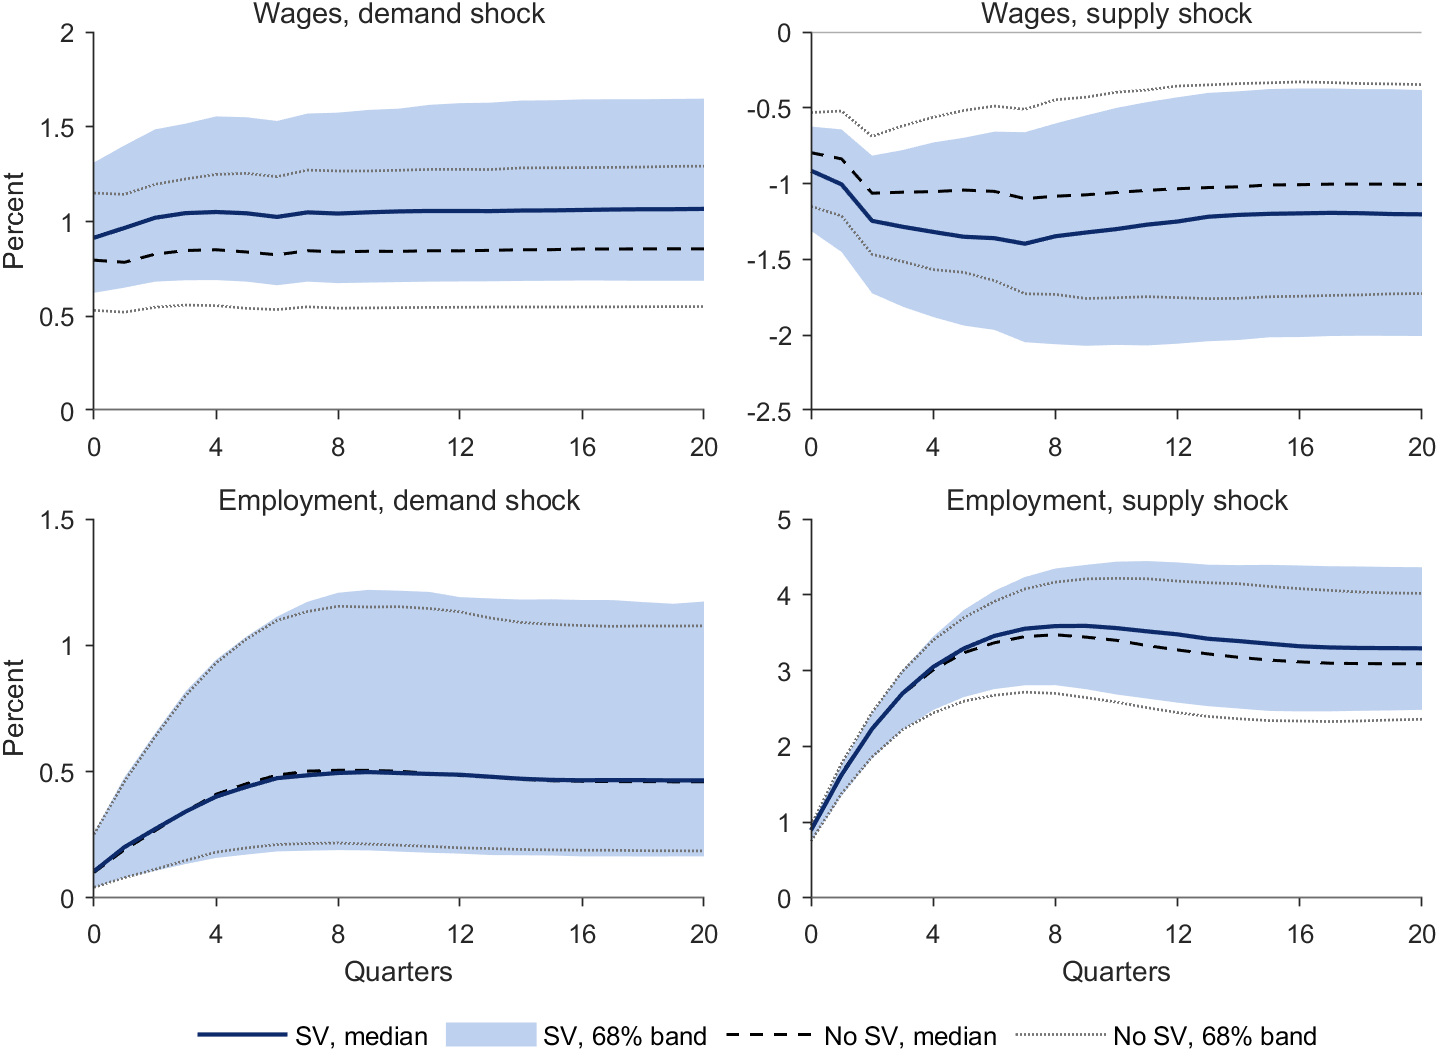
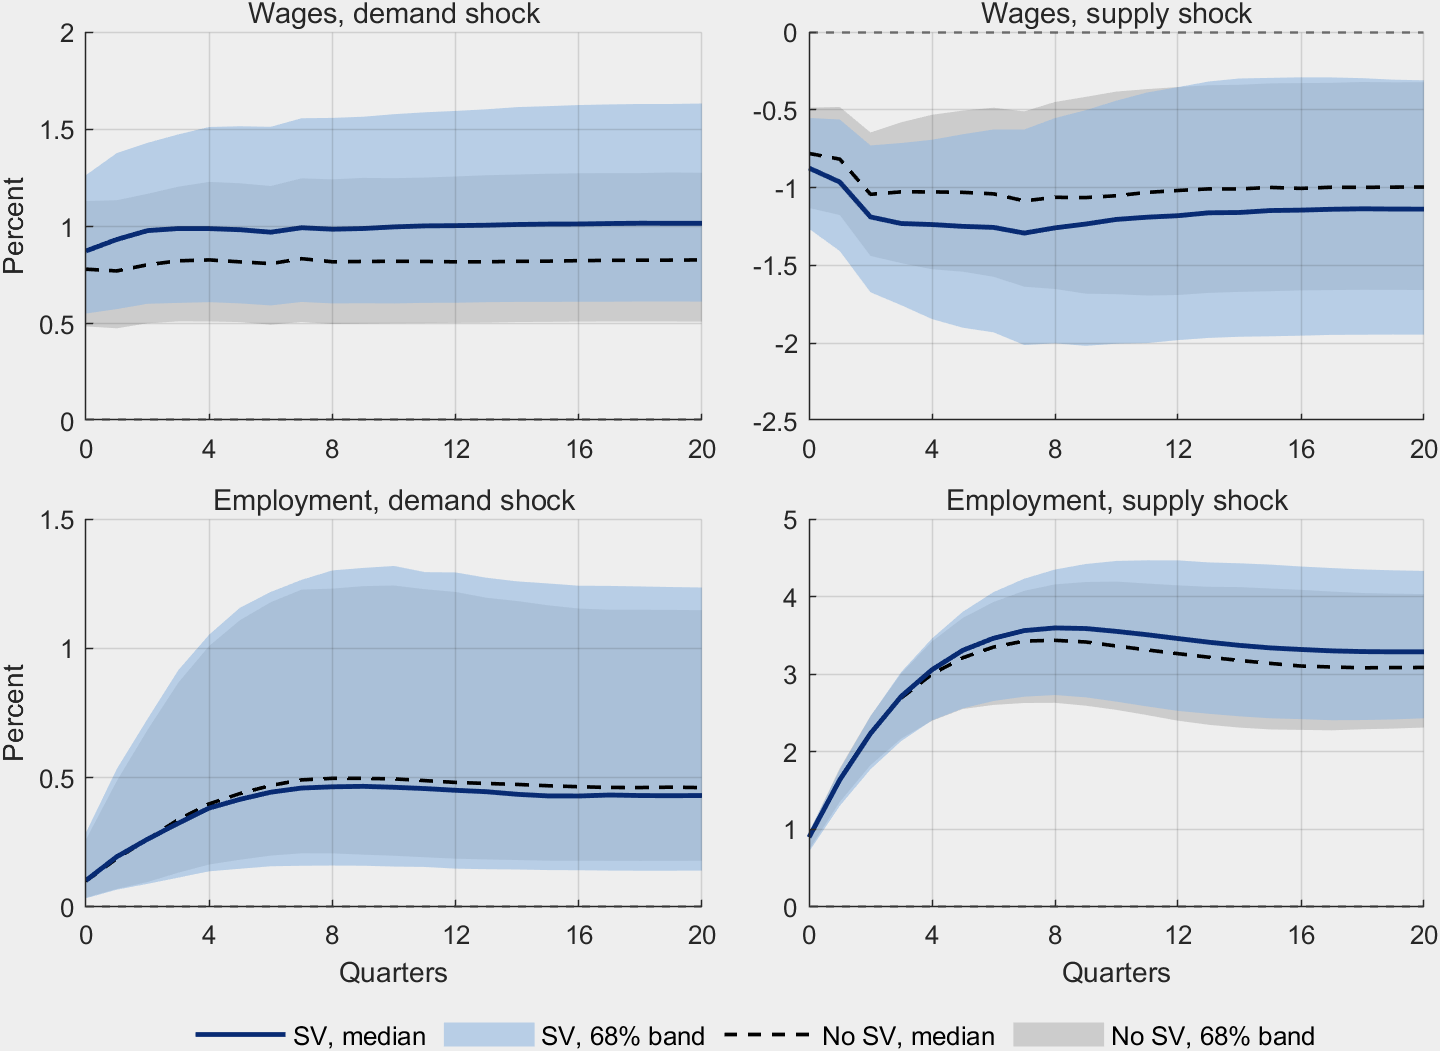
Blog BH15: converged sampler, gas-paper figure style, 8-quarter historical decomposition
Re-estimate with a log-scale adaptive random walk for A, four chains per
model (split R-hat 1.00). Restyle figures (site background, histograms,
lollipop ACF), show the historical decomposition for the SV model with
68% and 90% bands over an 8-quarter window, rewrite the results and
replace the data-vintage note with a note on the sampler.

diff --git a/_posts/2026-10-03-stochastic-volatility-baumeister-hamilton.md b/_posts/2026-10-03-stochastic-volatility-baumeister-hamilton.md
@@ -59,86 +59,87 @@ The common factor does not help identification, though. With a single factor the
 
 The Gibbs sampler has four blocks:
 
-1. $$A \mid Y, H$$: random-walk Metropolis on the marginal posterior above, computed with the standardized data.
+1. $$A \mid Y, H$$: random-walk Metropolis on the marginal posterior above, computed with the standardized data, with the random walk on $$\log(-\beta)$$ and $$\log \alpha$$.
 2. $$(b_i, d_{ii}) \mid A, H, Y$$: direct Normal–inverse-gamma draws, equation by equation.
 3. $$H \mid A, B, D, Y$$: the volatility path, using the Kim, Shephard and Chib (1998) mixture approximation and forward-filtering backward-sampling.
 4. $$(\phi, \sigma^2) \mid H$$: conjugate draws.
 
-Setting $$\sigma^2 \to 0$$ freezes $$h_t = 0$$ and recovers the homoskedastic BH15 sampler. Two practical details matter. The levels of $$h_t$$ and $$d_{ii}$$ are not separately identified (only $$d_{ii}\, e^{h_t}$$ is), so I recentre $$h_t$$ to mean zero at every iteration. Otherwise it drifts as $$\phi$$ approaches one. And the sign restrictions are imposed by rejecting Metropolis proposals that violate them, which amounts to truncating $$p(A)$$. Since the unconstrained mode violates them, the chain starts at the centre of the prior.
+Setting $$\sigma^2 \to 0$$ freezes $$h_t = 0$$ and recovers the homoskedastic BH15 sampler. Two practical details matter. The levels of $$h_t$$ and $$d_{ii}$$ are not separately identified (only $$d_{ii}\, e^{h_t}$$ is), so I recentre $$h_t$$ to mean zero at every iteration. Otherwise it drifts as $$\phi$$ approaches one. And the random walk for $$A$$ runs on the logarithms of the sign-restricted elements, so every proposal satisfies the restrictions, and its covariance is adapted during the burn-in. The note on the sampler at the end explains why this matters.
 
 ## Application: the US labor market
 
-I use the BH15 bivariate labor-market model: quarterly growth of real hourly compensation in the nonfarm business sector and of total nonfarm payroll employment, eight lags. Labor demand and supply shocks are separated by the BH15 prior, with a downward-sloping demand curve ($$\beta < 0$$) and an upward-sloping supply curve ($$\alpha > 0$$), plus a long-run restriction. The data are the current FRED vintage (series COMPRNFB and PAYEMS) and the sample is 1970:Q1–2019:Q4. It stops before 2020 because the COVID quarters are outliers of about fifteen standard deviations, which a Gaussian volatility process can only absorb by inflating $$\sigma^2$$ (Carriero, Clark, Marcellino and Mertens, 2024). The sampler runs 24,000 iterations, keeps the last 12,000 and uses every sixth draw.
+I use the BH15 bivariate labor-market model: quarterly growth of real hourly compensation in the nonfarm business sector and of total nonfarm payroll employment, eight lags. Labor demand and supply shocks are separated by the BH15 prior, with a downward-sloping demand curve ($$\beta < 0$$) and an upward-sloping supply curve ($$\alpha > 0$$), plus a long-run restriction. The data are the current FRED vintage (series COMPRNFB and PAYEMS) and the sample is 1970:Q1–2019:Q4. It stops before 2020 because the COVID quarters are outliers of about fifteen standard deviations, which a Gaussian volatility process can only absorb by inflating $$\sigma^2$$ (Carriero, Clark, Marcellino and Mertens, 2024). Each model is estimated with four chains of 110,000 iterations from dispersed starting points, discarding the first 10,000. The split $$\hat{R}$$ is 1.00 for both slopes and the effective sample size of $$\alpha$$ exceeds 23,000.
 
 **The volatility factor.** The common factor recovers the main episodes of US macroeconomic volatility: the Great Inflation, the Great Moderation and the Great Recession (Figure 1).
 
 <figure>
   <a href="/assets/blog/bh15-sv/volatility-factor.png"><img src="/assets/blog/bh15-sv/volatility-factor.png" alt="Posterior median, 68% and 90% bands of the common volatility factor, 1970 to 2019"></a>
-  <figcaption><strong>Figure 1. Common volatility factor</strong> \(e^{h_t/2}\), posterior median with 68% and 90% bands. Grey areas are NBER recessions. Peaks of 1.40 in 1974:Q4 and 1.35 in 1980:Q2, below one from 1984 with a trough of 0.72 in 1996, a peak of 1.45 in 2008:Q4 and a second trough of 0.75 in 2017. Posterior means: \(\phi \approx 0.92\), \(\sigma^2 \approx 0.04\).</figcaption>
+  <figcaption><strong>Figure 1. Common volatility factor</strong> \(e^{h_t/2}\), posterior median with 68% and 90% bands. Peaks of 1.41 in 1974:Q4 and 1.33 in 1980:Q2, below one from 1984 with a trough of 0.71 in 1996, a peak of 1.45 in 2008:Q4 and a second trough of 0.75 in 2017. Posterior means: \(\phi \approx 0.92\), \(\sigma^2 \approx 0.04\).</figcaption>
 </figure>
 
-**Elasticities.** Stochastic volatility leaves the posterior of the supply slope unchanged and moves the demand slope slightly towards zero (Figure 2). The supply slope is tightly estimated in both models, far from its prior. The demand slope stays close to its prior, as BH15 find.
+**Elasticities.** The posteriors of both slopes are almost the same in the two models (Figure 2). The supply slope is concentrated around 0.1, well below the centre of its prior, with a long right tail that is somewhat longer with stochastic volatility: the upper end of the 95% interval is 0.74 against 0.61. The posterior of the demand slope overlaps heavily with its prior, as in BH15.
 
 | | Demand slope $$\beta$$, no SV | Demand slope $$\beta$$, SV | Supply slope $$\alpha$$, no SV | Supply slope $$\alpha$$, SV |
 |---|---|---|---|---|
-| Median | −1.13 | −0.98 | 0.13 | 0.12 |
-| Std. deviation | 0.62 | 0.60 | 0.09 | 0.09 |
-| 95% interval | [−2.93, −0.33] | [−2.90, −0.27] | [0.04, 0.41] | [0.03, 0.41] |
+| Median | −1.12 | −1.03 | 0.13 | 0.11 |
+| Std. deviation | 0.94 | 0.93 | 0.19 | 0.23 |
+| 95% interval | [−3.48, −0.22] | [−3.22, −0.15] | [0.03, 0.61] | [0.02, 0.74] |
 
 <figure>
-  <a href="/assets/blog/bh15-sv/elasticity-posteriors.png"><img src="/assets/blog/bh15-sv/elasticity-posteriors.png" alt="Prior and posterior densities of the demand and supply slopes with and without stochastic volatility"></a>
-  <figcaption><strong>Figure 2. Prior and posterior densities of the elasticities</strong>, with and without stochastic volatility. The prior is the sign-truncated Student-t of BH15.</figcaption>
+  <a href="/assets/blog/bh15-sv/elasticity-posteriors.png"><img src="/assets/blog/bh15-sv/elasticity-posteriors.png" alt="Posterior histograms of the demand and supply slopes with and without stochastic volatility, and their prior"></a>
+  <figcaption><strong>Figure 2. Posterior histograms of the elasticities</strong>, with and without stochastic volatility, and the prior density, the sign-truncated Student-t of BH15. Each histogram uses 400,000 draws.</figcaption>
 </figure>
 
-The variance-decomposition shares at a four-year horizon do not move either. Wage variance is about 87% demand-driven with stochastic volatility and 88% without, employment variance about 86% and 84% supply-driven, and the 68% bands have the same width.
+The variance-decomposition shares at a four-year horizon do not move either. Wage variance is about 88% demand-driven in both models and employment variance about 86% supply-driven with stochastic volatility and 84% without. The 68% bands are slightly wider with stochastic volatility.
 
-**Historical decomposition.** Figures 3 and 4 show the contribution of each shock to the four-quarter growth of employment and wages. Summing the contributions over a four-quarter window, rather than cumulating them from 1970, keeps the uncertainty of the contributions from accumulating over the sample. Supply shocks account for the falls in employment growth in every recession: about −3.3 percentage points in 1975, −3.4 in 1982, −2.0 in 1991, −2.8 in 2001 and −5.8 in 2009. Demand shocks contribute less than two points in either direction. The two models give almost the same medians. The bands are 5% narrower with stochastic volatility for employment and 10% wider for wages.
+**Historical decomposition.** Figures 3 and 4 show the contribution of each shock to the eight-quarter growth of employment and wages in the model with stochastic volatility. Summing the contributions over an eight-quarter window, rather than cumulating them from 1970, keeps their uncertainty from accumulating over the sample. Supply shocks account for the falls in employment growth around every recession, with troughs of about −2.5 percentage points in 1975, −4.5 in 1983, −4.1 in 1992, −4.4 in 2002 and −8.1 at the end of 2009. Demand shocks move employment growth by at most about two points. The homoskedastic medians, not shown, differ from these by less than 0.8 points at any date, because the realized structural shocks are the same residuals in both models and the posteriors of $$A$$ and $$B$$ nearly coincide.
 
 <figure>
-  <a href="/assets/blog/bh15-sv/historical-decomposition.png"><img src="/assets/blog/bh15-sv/historical-decomposition.png" alt="Contributions of demand and supply shocks to four-quarter employment growth, with and without stochastic volatility"></a>
-  <figcaption><strong>Figure 3. Historical decomposition of employment</strong>: contributions of demand shocks (left) and supply shocks (right) to four-quarter employment growth, with and without stochastic volatility. Bands are 68% intervals, and grey areas are NBER recessions.</figcaption>
+  <a href="/assets/blog/bh15-sv/historical-decomposition.png"><img src="/assets/blog/bh15-sv/historical-decomposition.png" alt="Contributions of demand and supply shocks to eight-quarter employment growth, model with stochastic volatility"></a>
+  <figcaption><strong>Figure 3. Historical decomposition of employment</strong>: contributions of demand shocks (left) and supply shocks (right) to eight-quarter employment growth, model with stochastic volatility. Posterior median with 68% and 90% bands.</figcaption>
 </figure>
 
-Wage growth is driven mostly by demand shocks, with swings of up to about 3.5 points (Figure 4). In recessions supply shocks push wages up, by about 2.7 points in 2009:Q2, the mirror image of their negative contribution to employment.
+Wage growth is driven mostly by demand shocks, which subtract about 5.3 points in 1975 and 6.4 in 2009 and add about 5.0 in 1999 (Figure 4). Around recessions supply shocks push wages up, by about 3.1 points in 2009, the mirror image of their negative contribution to employment.
 
 <figure>
-  <a href="/assets/blog/bh15-sv/historical-decomposition-wages.png"><img src="/assets/blog/bh15-sv/historical-decomposition-wages.png" alt="Contributions of demand and supply shocks to four-quarter wage growth, with and without stochastic volatility"></a>
-  <figcaption><strong>Figure 4. Historical decomposition of wages</strong>: contributions of demand shocks (left) and supply shocks (right) to four-quarter wage growth, with and without stochastic volatility. Bands are 68% intervals, and grey areas are NBER recessions.</figcaption>
+  <a href="/assets/blog/bh15-sv/historical-decomposition-wages.png"><img src="/assets/blog/bh15-sv/historical-decomposition-wages.png" alt="Contributions of demand and supply shocks to eight-quarter wage growth, model with stochastic volatility"></a>
+  <figcaption><strong>Figure 4. Historical decomposition of wages</strong>: contributions of demand shocks (left) and supply shocks (right) to eight-quarter wage growth, model with stochastic volatility. Posterior median with 68% and 90% bands.</figcaption>
 </figure>
 
-**Unit responses.** On impact, the response to a unit structural shock depends only on $$A$$, so the two models differ as much as their posteriors of $$A$$ do: the impact response of wages to a demand shock is 0.91 with stochastic volatility and 0.80 without (Figure 5). At longer horizons the responses also depend on the lag coefficients, which stochastic volatility estimates by GLS. The shapes and signs are the same and the bands overlap. For wages the stochastic-volatility bands are wider.
+**Unit responses.** On impact, the response to a unit structural shock depends only on $$A$$, so the two models differ as much as their posteriors of $$A$$ do: the impact response of wages to a demand shock is 0.87 with stochastic volatility and 0.78 without (Figure 5). At longer horizons the responses also depend on the lag coefficients, which stochastic volatility estimates by GLS. The shapes and signs are the same and the bands overlap. For wages the stochastic-volatility bands are wider.
 
 <figure>
   <a href="/assets/blog/bh15-sv/unit-irfs.png"><img src="/assets/blog/bh15-sv/unit-irfs.png" alt="Responses of wages and employment to unit demand and supply shocks, with and without stochastic volatility"></a>
   <figcaption><strong>Figure 5. Responses to a unit structural shock</strong>, cumulated to levels, with and without stochastic volatility. Bands are 68% intervals.</figcaption>
 </figure>
 
-**State dependence.** A one-standard-deviation shock has size $$\sqrt{d_{ii}}\, e^{h_t/2}$$, so its impulse response is the unit response scaled by the volatility of the moment. A shock in 2009 moves employment about twice as much as one in 1995, the ratio of the median volatility factor in the two years, 1.44 against 0.73 (Figure 6). The homoskedastic model has a single one-standard-deviation response.
+**State dependence.** A one-standard-deviation shock has size $$\sqrt{d_{ii}}\, e^{h_t/2}$$, so its impulse response is the unit response scaled by the volatility of the moment. A shock in 2009 moves employment about twice as much as one in 1995, the ratio of the median volatility factor in the two years, 1.45 against 0.72 (Figure 6). The homoskedastic model has a single one-standard-deviation response.
 
 <figure>
   <a href="/assets/blog/bh15-sv/one-sd-employment.png"><img src="/assets/blog/bh15-sv/one-sd-employment.png" alt="Employment responses to one-standard-deviation demand and supply shocks in 2009 and in 1995"></a>
   <figcaption><strong>Figure 6. One-standard-deviation responses of employment</strong> to a demand shock (left) and a supply shock (right), dated 2009 (high volatility) and 1995 (low volatility). Bands are 68% intervals.</figcaption>
 </figure>
 
-**Where the volatility lives.** Under homoskedasticity, the squared demand shocks are autocorrelated, the hallmark of volatility clustering: the first-order autocorrelation is 0.31 and the Ljung–Box p-value at 20 lags is below 0.001 (Figure 7). After standardizing by the volatility factor, the autocorrelation falls to 0.15 and the p-value rises to 0.05. Spikes at lags 11 and 12 remain in both models. For the supply shock the evidence of clustering is weaker, with a p-value of 0.08, and it disappears with stochastic volatility (0.45).
+**Where the volatility lives.** Under homoskedasticity, the squared demand shocks are autocorrelated, the hallmark of volatility clustering: the first-order autocorrelation is 0.31 and the Ljung–Box p-value at 20 lags is below 0.001 (Figure 7). After standardizing by the volatility factor, the autocorrelation falls to 0.15 and the p-value rises to 0.05. Spikes at lags 11 and 12 remain in both models. The squared supply shocks show no significant clustering in either model.
 
 <figure>
   <a href="/assets/blog/bh15-sv/acf-squared-shocks.png"><img src="/assets/blog/bh15-sv/acf-squared-shocks.png" alt="Autocorrelation and partial autocorrelation of the squared demand and supply shocks, with and without stochastic volatility"></a>
-  <figcaption><strong>Figure 7. Autocorrelation (left) and partial autocorrelation (right) of the squared structural shocks</strong>, for the demand shock (top) and the supply shock (bottom), with and without stochastic volatility. Dashed lines mark the \(\pm 1.96/\sqrt{T}\) bounds. Ljung–Box p-values at 20 lags: demand below 0.001 without and 0.05 with stochastic volatility, supply 0.08 and 0.45.</figcaption>
+  <figcaption><strong>Figure 7. Autocorrelation (left) and partial autocorrelation (right) of the squared structural shocks</strong>, for the demand shock (top) and the supply shock (bottom), with and without stochastic volatility. Dashed lines mark the \(\pm 1.96/\sqrt{T}\) bounds. Ljung–Box p-values at 20 lags: demand below 0.001 without and 0.05 with stochastic volatility, supply 0.28 and 0.81.</figcaption>
 </figure>
 
-**A note on the data vintage.** A first version of this note used the BH15 data, which end in 2014:Q2. With that vintage, stochastic volatility cut the posterior standard deviation of $$\alpha$$ from 0.26 to 0.11 by removing a right tail between 0.5 and 1.4. With the current vintage of the same series over the same period, that tail is much thinner in the homoskedastic model (the upper end of the 95% interval is 0.65 instead of 1.12) and stochastic volatility barely changes it (0.15 against 0.14). The precision gain came from the data vintage, not from the model.
+**A note on the sampler.** A first version of this note reported that stochastic volatility more than halved the posterior standard deviation of $$\alpha$$. That result came from the sampler, not from the model. A random walk on $$(\beta, \alpha)$$ in levels mixes slowly in the right tail of $$\alpha$$, which lies against the sign restriction at zero: in a chain of 50,000 draws the effective sample size of $$\alpha$$ was 60, and the estimated standard deviation depended on whether the chain happened to visit the tail. The random walk now runs on $$\log(-\beta)$$ and $$\log \alpha$$, with the corresponding Jacobian, so every proposal satisfies the sign restrictions, and its covariance is adapted during the burn-in (Haario, Saksman and Tamminen, 2001). With this sampler the tail appears in both models, and also with the original BH15 data, where the standard deviation of $$\alpha$$ is 0.24 with stochastic volatility and 0.22 without.
 
 ## Takeaways
 
-A single common volatility factor is a cheap addition to BH15. Given the volatility path the conjugate sampler is unchanged, and one extra block delivers the volatility. It does not relax the identification problem, and on current data it does not sharpen the estimates of the elasticities, the variance decomposition or the historical decomposition either. What it adds is a measured volatility path and shock sizes that move with the state of the economy.
+A single common volatility factor is a cheap addition to BH15. Given the volatility path the conjugate sampler is unchanged, and one extra block delivers the volatility. It does not relax the identification problem, and it leaves the elasticities, the variance decomposition and the historical decomposition essentially unchanged. What it adds is a measured volatility path and shock sizes that move with the state of the economy.
 
-It also leaves something on the table. The clustering lives mainly in the demand shock, so a shock-specific volatility $$h_{it}$$ would let relative variances move over time. That would deliver identification through heteroskedasticity on top of the BH15 prior. Extending the sample beyond 2019 requires, in addition, a treatment of the COVID outliers.
+It also leaves something on the table. The clustering lives in the demand shock, so a shock-specific volatility $$h_{it}$$ would let relative variances move over time. That would deliver identification through heteroskedasticity on top of the BH15 prior. Extending the sample beyond 2019 requires, in addition, a treatment of the COVID outliers.
 
 ## References
 
 - Baumeister, C. and J. D. Hamilton (2015). Sign restrictions, structural vector autoregressions, and useful prior information. *Econometrica*, 83(5), 1963–1999.
 - Carriero, A., T. E. Clark, M. Marcellino and E. Mertens (2024). Addressing COVID-19 outliers in BVARs with stochastic volatility. *Review of Economics and Statistics*, 106(5), 1403–1417.
+- Haario, H., E. Saksman and J. Tamminen (2001). An adaptive Metropolis algorithm. *Bernoulli*, 7(2), 223–242.
 - Kim, S., N. Shephard and S. Chib (1998). Stochastic volatility: likelihood inference and comparison with ARCH models. *Review of Economic Studies*, 65(3), 361–393.
 - Lanne, M., H. Lütkepohl and K. Maciejowska (2010). Structural vector autoregressions with Markov switching. *Journal of Economic Dynamics and Control*, 34(2), 121–131.
 - Lewis, D. J. (2021). Identifying shocks via time-varying volatility. *Review of Economic Studies*, 88(6), 3086–3124.
